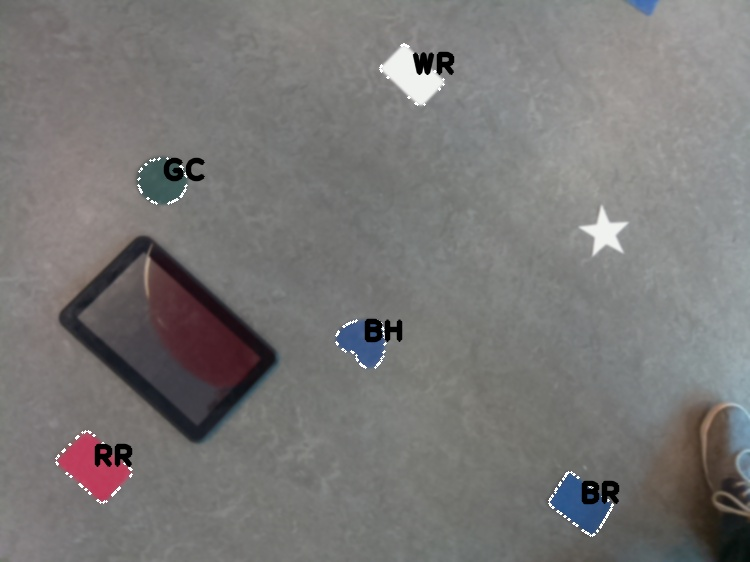
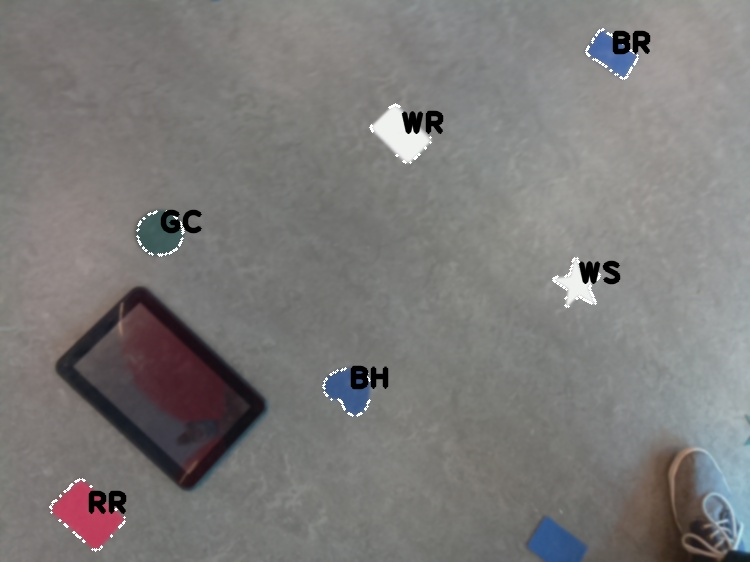
Verfijning unidentief shapes

diff --git a/WitRemote/src/NewShapeRecognition.java b/WitRemote/src/NewShapeRecognition.java
@@ -131,7 +131,7 @@ public class NewShapeRecognition implements Runnable {
 
 		Grid grid = new Grid("");
 		NewShapeRecognition shapeRecog = new NewShapeRecognition(
-				"C:/Users/Niels Vanderstraeten/Dropbox/P&O WIT/VormHerkenning/A13.jpg", null, grid, null);
+				"C:/Users/Niels Vanderstraeten/Dropbox/P&O WIT/VormHerkenning/A14.jpg", null, grid, null);
 		//NewShapeRecognition shapeRecog = new NewShapeRecognition("pic1.jpg");
 		Thread t = new Thread(shapeRecog);
 		t.start();
@@ -323,7 +323,7 @@ public class NewShapeRecognition implements Runnable {
 							imageTxt = "U";
 							isUnidentified = true;
 						}
-						else if(areaHull/area > 1.2  && areaCircle/area < 5){
+						else if(areaHull/area > 1.2  && areaCircle/area < 3){
 							//System.out.println("Star AREAHULL/AREA == " + areaHull/area);
 							shapes.add("Star");
 							stars++;;
@@ -331,10 +331,10 @@ public class NewShapeRecognition implements Runnable {
 							averageArea+= area;
 							medianArea.add(area);
 						}
-//						else if(areaCircle/area > 1.6  && areaCircle/area < 5){
+//						else if(areaCircle/area > 1.6  && areaCircle/area < 3){
 						else if(((areaCircle/area > 1.64) 
 								|| (areaHull/area < 1.038 && areaCircle/area > 1.4))
-								&& (areaCircle/area < 5)){
+								&& (areaCircle/area < 3)){
 							//System.out.println("Rectangle AreaCircle/area == " + areaCircle/area);
 							//System.out.println("Rectangle AreaHull/area == " + areaHull/area);
 							shapes.add("Rectangle");
@@ -343,8 +343,8 @@ public class NewShapeRecognition implements Runnable {
 							averageArea+= area;
 							medianArea.add(area);
 						}
-//						else if(areaCircle/area > 1.3  && areaCircle/area < 5){
-						else if(areaHull/area > 1.038  && areaCircle/area < 5){
+//						else if(areaCircle/area > 1.3  && areaCircle/area < 3){
+						else if(areaHull/area > 1.038  && areaCircle/area < 3){
 							//System.out.println("Heart AreaCircle/area == " + areaCircle/area);
 							//System.out.println("Heart AreaHull/area == " + areaHull/area);
 							shapes.add("Heart");
@@ -353,7 +353,7 @@ public class NewShapeRecognition implements Runnable {
 							averageArea+= area;
 							medianArea.add(area);
 						}
-						else if(areaCircle/area >= 1  && areaCircle/area < 5){
+						else if(areaCircle/area >= 1  && areaCircle/area < 3){
 							shapes.add("Circle");
 							circles++;
 							imageTxt = "C";

diff --git a/WitRemote/src/RunPython.java b/WitRemote/src/RunPython.java
@@ -1,0 +1,64 @@
+import java.io.BufferedReader;
+import java.io.FileNotFoundException;
+import java.io.FileReader;
+import java.io.IOException;
+import java.io.PrintWriter;
+import java.io.UnsupportedEncodingException;
+
+public class RunPython {
+
+	
+	public void run(){
+		try {
+			Runtime.getRuntime().exec("cmd /c python keys.py");
+		} catch (IOException e) {
+			e.printStackTrace();
+		}
+		
+		String key = read("public");
+		//SEND KEY TO RABBITMQ
+		
+		//READ QR CODE
+		String text = QR_Decoder.decodeQR("image.jpg");
+		write("encrypted", text);
+		
+		try {
+			Runtime.getRuntime().exec("cmd /c python decryption.py");
+		} catch (IOException e) {
+			e.printStackTrace();
+		}
+		
+		read("result");
+		
+	}
+	
+	
+	public String read(String fileName){
+		String result = "";
+		try {
+			BufferedReader br = new BufferedReader(new FileReader("result"));
+			StringBuilder sb = new StringBuilder();
+			String line = br.readLine();
+
+			while (line != null) {
+				sb.append(line);
+				sb.append(System.lineSeparator());
+				line = br.readLine();
+			}
+			result = sb.toString();
+			br.close();
+		} catch(IOException e) {
+		}
+		return result;
+	}
+	
+	public void write(String fileName, String text){
+		PrintWriter writer;
+		try {
+			writer = new PrintWriter("encrypted", "UTF-8");
+			writer.println(text);
+			writer.close();
+		} catch (FileNotFoundException | UnsupportedEncodingException e) {
+		}
+	}
+}

diff --git a/WitRemote/src/decription.py b/WitRemote/src/decription.py
@@ -1,0 +1,13 @@
+from Crypto.PublicKey import RSA
+import sys
+from base64 import b64decode
+
+cmd = open("encrypted", "r").read()
+
+
+key=open("private", "r").read()
+priv_key = RSA.importKey(key)
+plaintext=priv_key.decrypt(b64decode(cmd))
+
+with open("result", "w") as file:
+	file.write(plaintext)

diff --git a/WitRemote/src/keys.py b/WitRemote/src/keys.py
@@ -1,0 +1,11 @@
+from Crypto.PublicKey import RSA
+new_key = RSA.generate(1024,e=5)
+pub_key = new_key.publickey().exportKey("PEM")
+
+#opslaan en doorsturen via java
+
+with open("public", "w") as file:
+	file.write(pub_key)
+	
+with open("private", "w") as file:
+	file.write(new_key.exportKey("PEM"))

diff --git a/WitRemote/src/encrypt.py b/WitRemote/src/encrypt.py
@@ -1,0 +1,9 @@
+from Crypto.PublicKey import RSA
+import base64
+
+key= open("public","r").read()
+pub_key = RSA.importKey(key)
+cmd_enc = pub_key.encrypt("abc",0)[0]
+
+with open("encrypted", "w") as file:
+	file.write(cmd_enc.encode("base64"))
